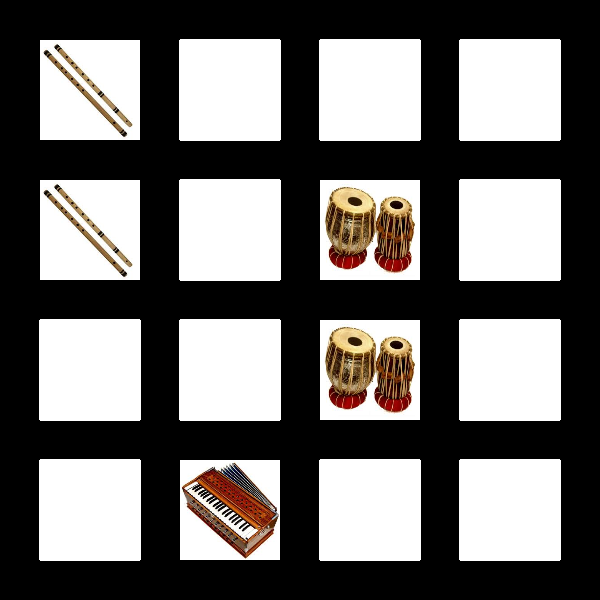
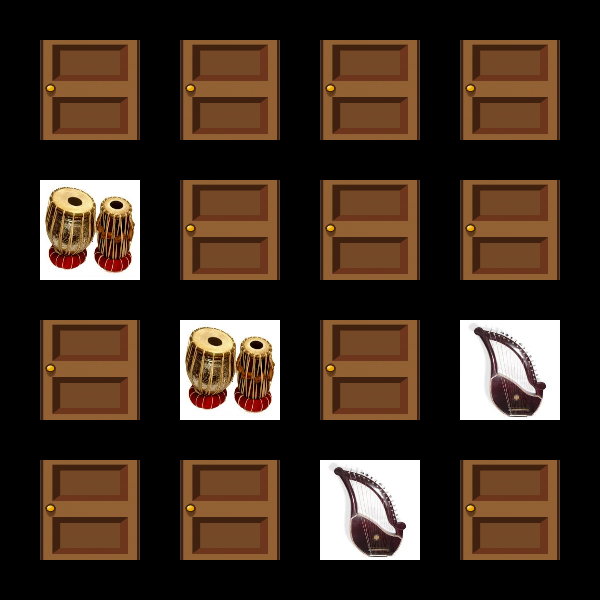
img added for boxes

diff --git a/public/box.js b/public/box.js
@@ -36,13 +36,15 @@ class Box{
             // stroke(255);
             // line(0,0,0,height);
             rotateY(this.angle);
-            stroke(255);
-            fill(255);
+            // stroke(255);
+            // fill(255);
             if(this.revealed){
                 image(this.img,-this.size/2,this.y,this.size,this.size);
             }
-            else
-                rect(-this.size/2,this.y,this.size,this.size);
+            else{
+                image(doorImage,-this.size/2,this.y,this.size,this.size);
+                // rect(-this.size/2,this.y,this.size,this.size);
+            }
             pop()
     }
     isMouseIn(mouseX,mouseY){

diff --git a/public/sketch.js b/public/sketch.js
@@ -4,9 +4,11 @@ let cols=4;
 let boxes=[];
 let images=[];
 let count;
+let doorImage;
 function preload(){
     for(let i=0;i<8;i++)
         images.push(loadImage("./musicInstruments/image"+(i+1)+".jpg"));
+    doorImage=loadImage("door.png");
 }
 function setup(){
     createCanvas(300,300,WEBGL);
